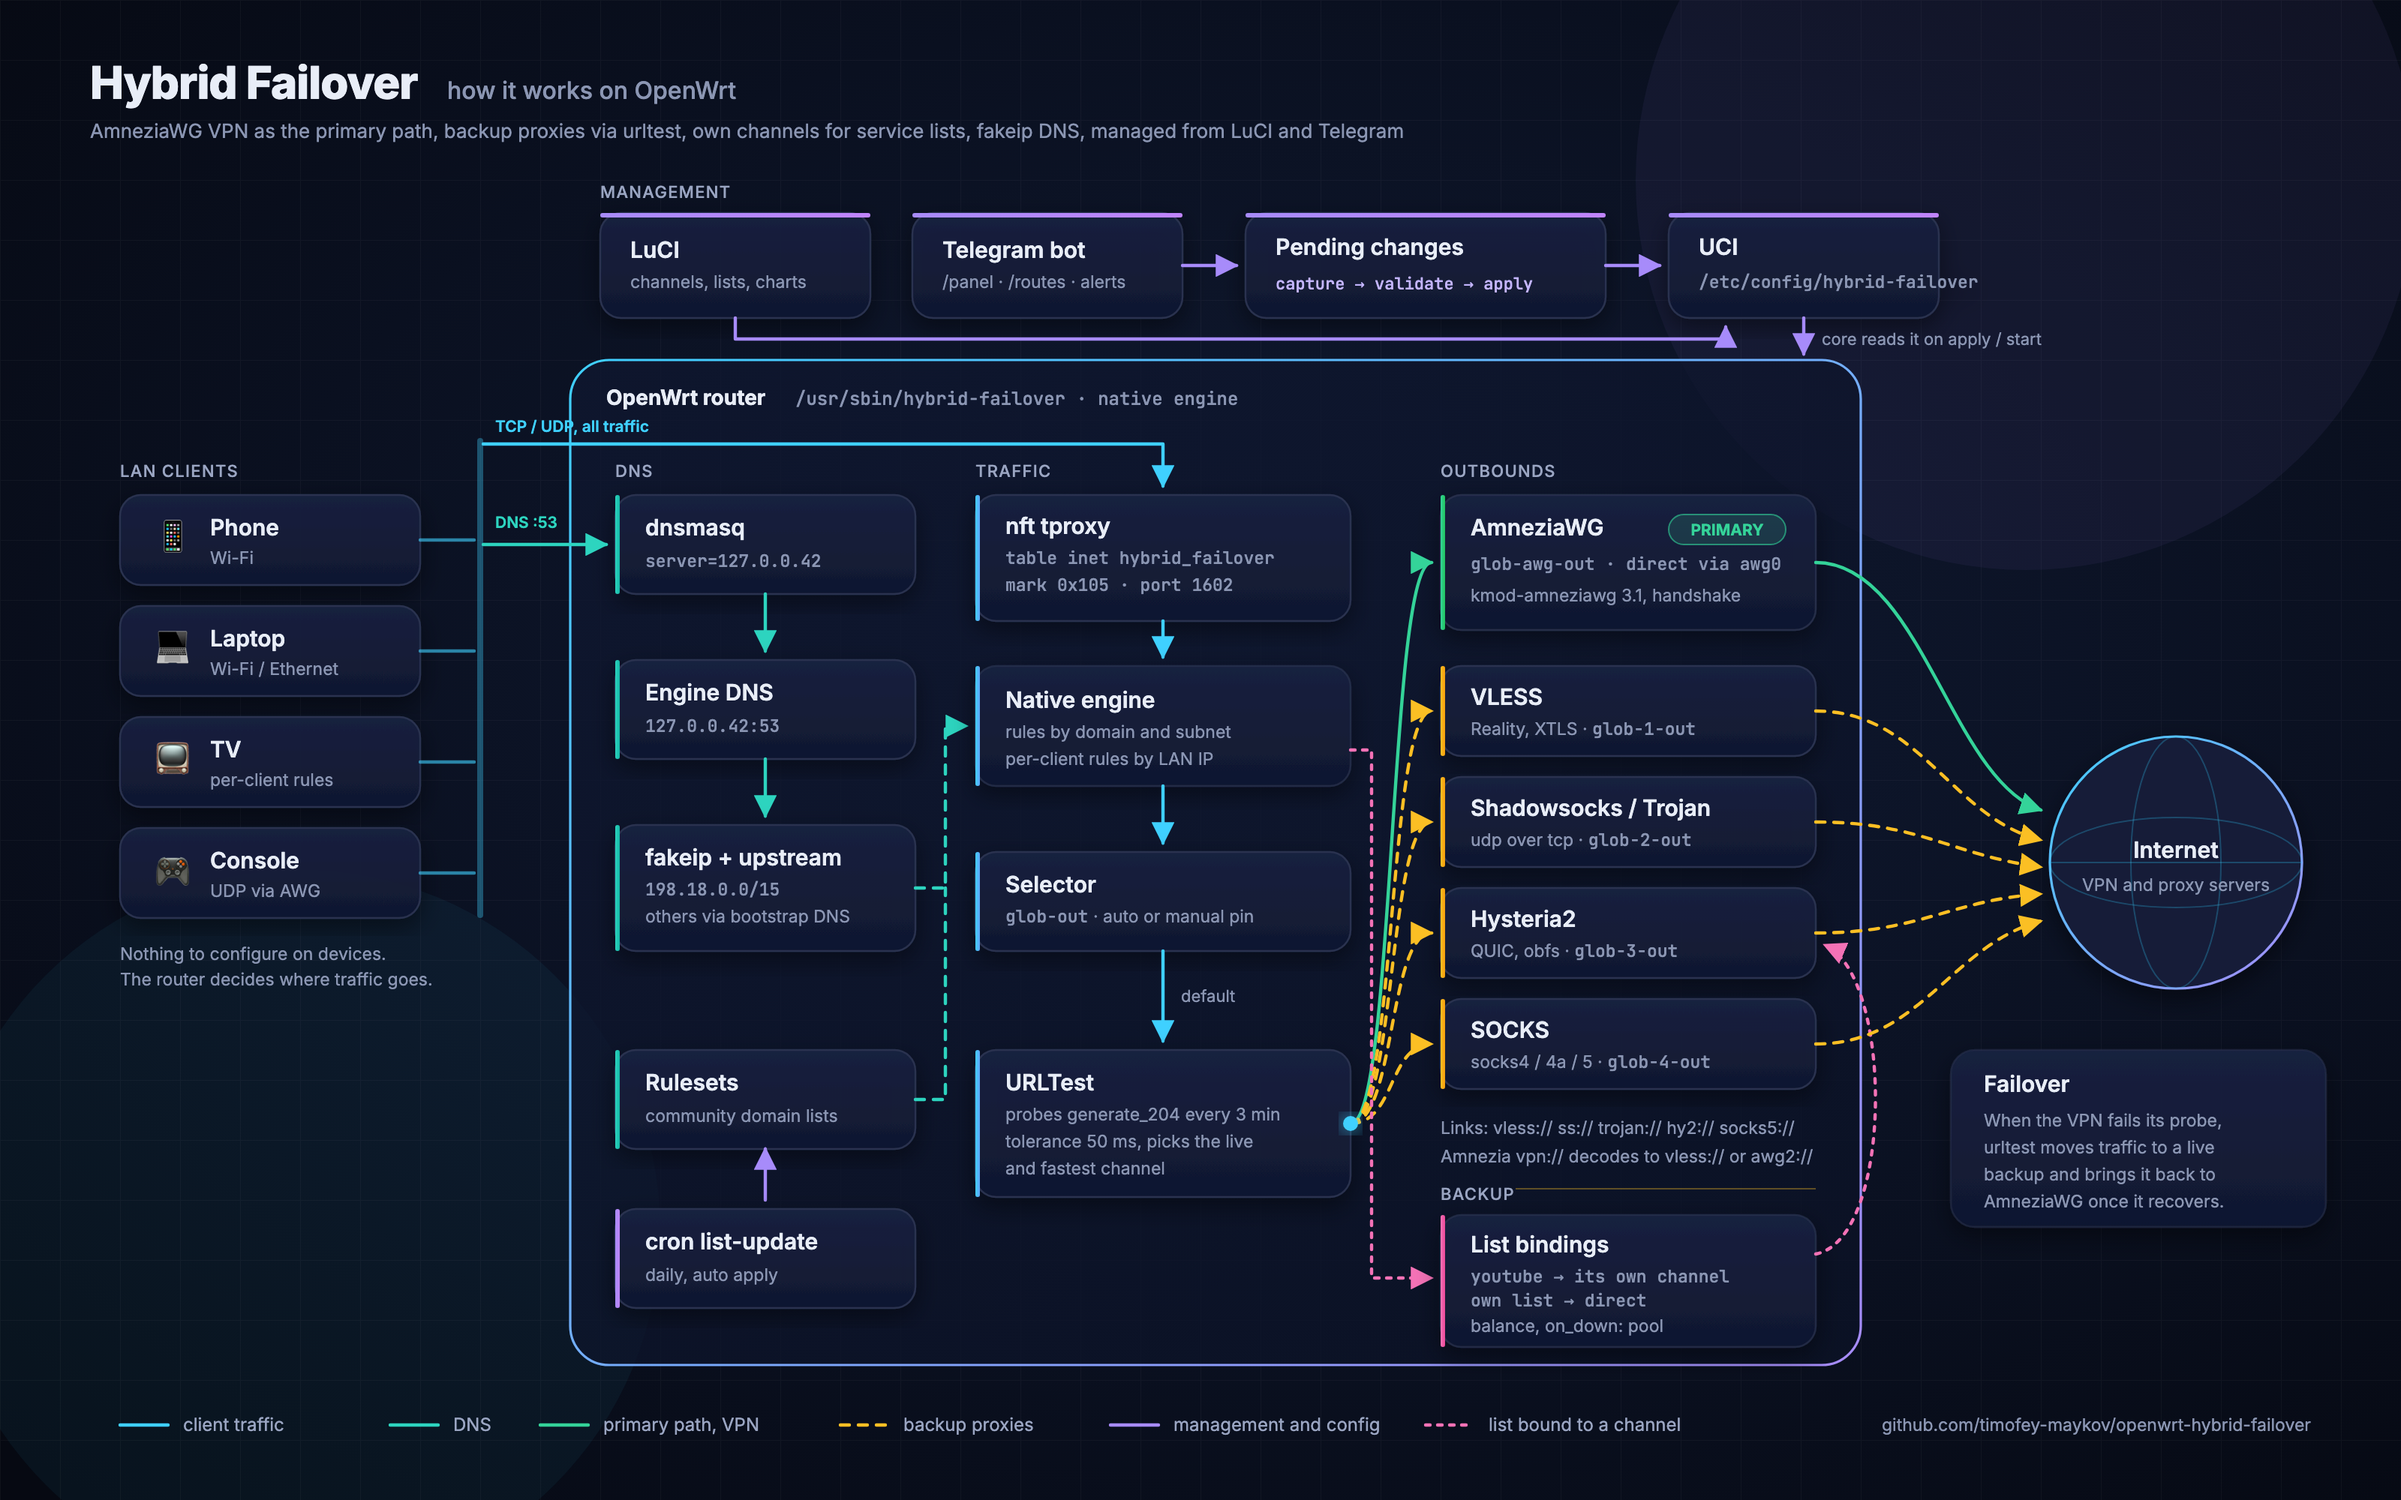
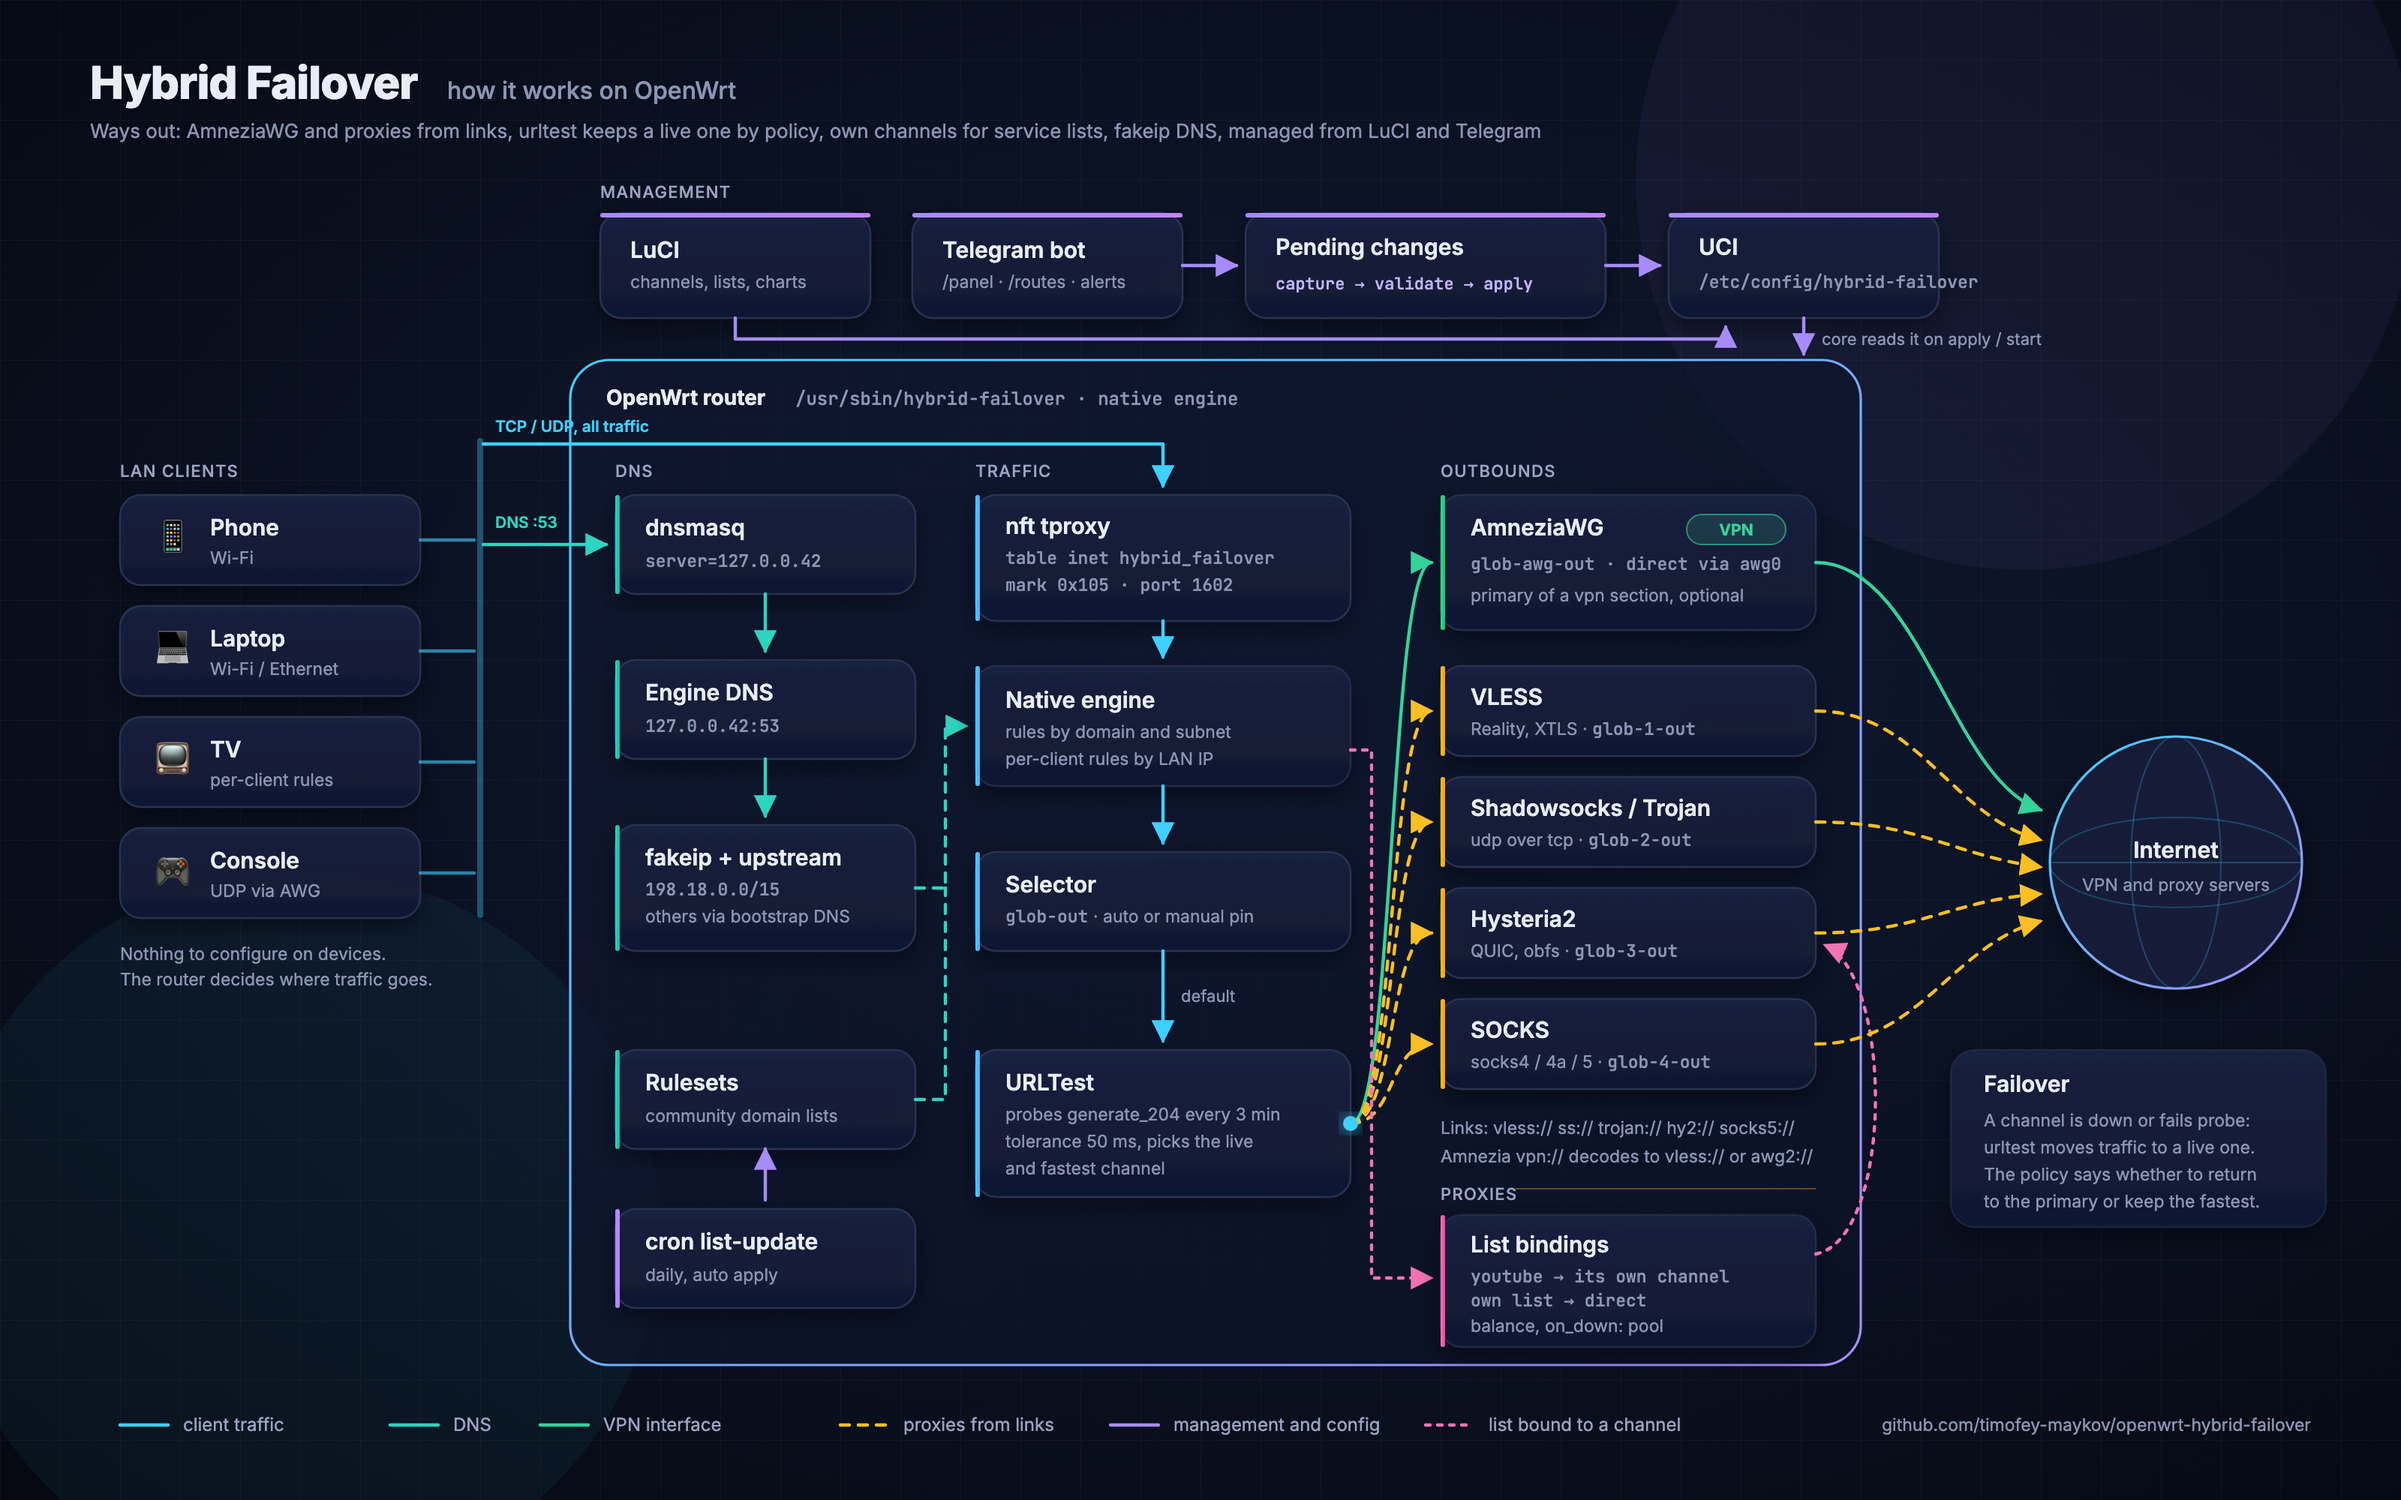
docs: redraw the schema without the VPN-plus-backups framing
AmneziaWG is one way out, the primary only in a vpn section; proxies
are channels in their own right, not a backup tier; the failover note
says the policy decides whether traffic returns to the primary or stays
on the fastest. PNGs re-rendered from the HTML sources with headless
Chrome at 2x, same pipeline as before.

diff --git a/docs/img/hybrid-failover-schema.html b/docs/img/hybrid-failover-schema.html
@@ -90,7 +90,7 @@
   <!-- title -->
   <text x="60" y="66" class="t" font-size="30" font-weight="800" letter-spacing="-0.5">Hybrid Failover</text>
   <text x="298" y="66" class="s" font-size="16" font-weight="500">как работает сервис на OpenWrt</text>
-  <text x="60" y="92" class="s" font-size="13">VPN через AmneziaWG как основной путь, резервные proxy через urltest, свои каналы для списков сервисов, DNS с fakeip, управление из LuCI и Telegram</text>
+  <text x="60" y="92" class="s" font-size="13">Каналы наружу: AmneziaWG и прокси по ссылкам, urltest держит живой по политике, свои каналы для списков сервисов, DNS с fakeip, управление из LuCI и Telegram</text>
 
   <!-- ===================== CONTROL PLANE ===================== -->
   <text x="400" y="132" class="lbl">Управление</text>
@@ -227,10 +227,10 @@
     <rect x="960" y="330" width="250" height="90" rx="14" class="card" stroke="#34d399" stroke-opacity="0.8"/>
     <rect x="960" y="330" width="3" height="90" rx="1.5" fill="url(#green)"/>
     <text x="980" y="357" class="cardT">AmneziaWG</text>
-    <rect x="1112" y="343" width="78" height="20" rx="10" fill="#34d399" fill-opacity="0.15" stroke="#34d399" stroke-opacity="0.6"/>
-    <text x="1151" y="357" font-size="10.5" font-weight="700" fill="#34d399" text-anchor="middle">ОСНОВНОЙ</text>
+    <rect x="1124" y="343" width="66" height="20" rx="10" fill="#34d399" fill-opacity="0.15" stroke="#34d399" stroke-opacity="0.6"/>
+    <text x="1157" y="357" font-size="10.5" font-weight="700" fill="#34d399" text-anchor="middle">VPN</text>
     <text x="980" y="380" class="cardS mono" font-size="11">glob-awg-out · direct via awg0</text>
-    <text x="980" y="401" class="cardS">kmod-amneziawg 3.1, handshake</text>
+    <text x="980" y="401" class="cardS">основной в секции vpn, необязателен</text>
   </g>
   <!-- backups -->
   <g filter="url(#soft)">
@@ -259,7 +259,7 @@
   </g>
   <text x="960" y="756" class="s" font-size="11.5">Ссылки: vless:// ss:// trojan:// hy2:// socks5://</text>
   <text x="960" y="775" class="s" font-size="11.5">vpn:// Amnezia декодируется в vless:// или awg2://</text>
-  <text x="960" y="800" class="lbl" font-size="10">Резерв</text>
+  <text x="960" y="800" class="lbl" font-size="10">Прокси</text>
   <rect x="1010" y="792" width="200" height="1" fill="#fbbf24" fill-opacity="0.35"/>
 
   <!-- urltest -> outbounds (fan out) -->
@@ -343,18 +343,18 @@
   <g filter="url(#soft)">
     <rect x="1300" y="700" width="250" height="118" rx="16" class="card" stroke="#fbbf24" stroke-opacity="0.5"/>
     <text x="1322" y="728" class="cardT" fill="#fbbf24">Failover</text>
-    <text x="1322" y="751" class="cardS">VPN упал или не проходит probe:</text>
-    <text x="1322" y="769" class="cardS">urltest сам переключает на живой</text>
-    <text x="1322" y="787" class="cardS">резерв, а после восстановления</text>
-    <text x="1322" y="805" class="cardS">возвращает трафик в AmneziaWG</text>
+    <text x="1322" y="751" class="cardS">Канал упал или не прошёл probe:</text>
+    <text x="1322" y="769" class="cardS">urltest переводит трафик на живой.</text>
+    <text x="1322" y="787" class="cardS">Политика решает: вернуться на</text>
+    <text x="1322" y="805" class="cardS">основной или держать самый быстрый.</text>
   </g>
 
   <!-- ===================== LEGEND ===================== -->
   <g font-size="12" fill="#9aa5c2">
     <line x1="80" y1="950" x2="112" y2="950" class="flow data"/><text x="122" y="954">трафик клиентов</text>
     <line x1="260" y1="950" x2="292" y2="950" class="flow dns"/><text x="302" y="954">DNS</text>
-    <line x1="360" y1="950" x2="392" y2="950" class="flow vpn"/><text x="402" y="954">основной путь, VPN</text>
-    <line x1="560" y1="950" x2="592" y2="950" class="flow bak dash"/><text x="602" y="954">резервные proxy</text>
+    <line x1="360" y1="950" x2="392" y2="950" class="flow vpn"/><text x="402" y="954">VPN-интерфейс</text>
+    <line x1="560" y1="950" x2="592" y2="950" class="flow bak dash"/><text x="602" y="954">прокси по ссылкам</text>
     <line x1="740" y1="950" x2="772" y2="950" class="flow ctl"/><text x="782" y="954">управление и конфиг</text>
     <line x1="950" y1="950" x2="982" y2="950" class="flow bind"/><text x="992" y="954">привязка списка к каналу</text>
   </g>

diff --git a/docs/img/hybrid-failover-schema.en.html b/docs/img/hybrid-failover-schema.en.html
@@ -90,7 +90,7 @@
   <!-- title -->
   <text x="60" y="66" class="t" font-size="30" font-weight="800" letter-spacing="-0.5">Hybrid Failover</text>
   <text x="298" y="66" class="s" font-size="16" font-weight="500">how it works on OpenWrt</text>
-  <text x="60" y="92" class="s" font-size="13">AmneziaWG VPN as the primary path, backup proxies via urltest, own channels for service lists, fakeip DNS, managed from LuCI and Telegram</text>
+  <text x="60" y="92" class="s" font-size="13">Ways out: AmneziaWG and proxies from links, urltest keeps a live one by policy, own channels for service lists, fakeip DNS, managed from LuCI and Telegram</text>
 
   <!-- ===================== CONTROL PLANE ===================== -->
   <text x="400" y="132" class="lbl">Management</text>
@@ -227,10 +227,10 @@
     <rect x="960" y="330" width="250" height="90" rx="14" class="card" stroke="#34d399" stroke-opacity="0.8"/>
     <rect x="960" y="330" width="3" height="90" rx="1.5" fill="url(#green)"/>
     <text x="980" y="357" class="cardT">AmneziaWG</text>
-    <rect x="1112" y="343" width="78" height="20" rx="10" fill="#34d399" fill-opacity="0.15" stroke="#34d399" stroke-opacity="0.6"/>
-    <text x="1151" y="357" font-size="10.5" font-weight="700" fill="#34d399" text-anchor="middle">PRIMARY</text>
+    <rect x="1124" y="343" width="66" height="20" rx="10" fill="#34d399" fill-opacity="0.15" stroke="#34d399" stroke-opacity="0.6"/>
+    <text x="1157" y="357" font-size="10.5" font-weight="700" fill="#34d399" text-anchor="middle">VPN</text>
     <text x="980" y="380" class="cardS mono" font-size="11">glob-awg-out · direct via awg0</text>
-    <text x="980" y="401" class="cardS">kmod-amneziawg 3.1, handshake</text>
+    <text x="980" y="401" class="cardS">primary of a vpn section, optional</text>
   </g>
   <!-- backups -->
   <g filter="url(#soft)">
@@ -259,7 +259,7 @@
   </g>
   <text x="960" y="756" class="s" font-size="11.5">Links: vless:// ss:// trojan:// hy2:// socks5://</text>
   <text x="960" y="775" class="s" font-size="11.5">Amnezia vpn:// decodes to vless:// or awg2://</text>
-  <text x="960" y="800" class="lbl" font-size="10">Backup</text>
+  <text x="960" y="800" class="lbl" font-size="10">Proxies</text>
   <rect x="1010" y="792" width="200" height="1" fill="#fbbf24" fill-opacity="0.35"/>
 
   <!-- urltest -> outbounds (fan out) -->
@@ -343,18 +343,18 @@
   <g filter="url(#soft)">
     <rect x="1300" y="700" width="250" height="118" rx="16" class="card" stroke="#fbbf24" stroke-opacity="0.5"/>
     <text x="1322" y="728" class="cardT" fill="#fbbf24">Failover</text>
-    <text x="1322" y="751" class="cardS">When the VPN fails its probe,</text>
-    <text x="1322" y="769" class="cardS">urltest moves traffic to a live</text>
-    <text x="1322" y="787" class="cardS">backup and brings it back to</text>
-    <text x="1322" y="805" class="cardS">AmneziaWG once it recovers.</text>
+    <text x="1322" y="751" class="cardS">A channel is down or fails probe:</text>
+    <text x="1322" y="769" class="cardS">urltest moves traffic to a live one.</text>
+    <text x="1322" y="787" class="cardS">The policy says whether to return</text>
+    <text x="1322" y="805" class="cardS">to the primary or keep the fastest.</text>
   </g>
 
   <!-- ===================== LEGEND ===================== -->
   <g font-size="12" fill="#9aa5c2">
     <line x1="80" y1="950" x2="112" y2="950" class="flow data"/><text x="122" y="954">client traffic</text>
     <line x1="260" y1="950" x2="292" y2="950" class="flow dns"/><text x="302" y="954">DNS</text>
-    <line x1="360" y1="950" x2="392" y2="950" class="flow vpn"/><text x="402" y="954">primary path, VPN</text>
-    <line x1="560" y1="950" x2="592" y2="950" class="flow bak dash"/><text x="602" y="954">backup proxies</text>
+    <line x1="360" y1="950" x2="392" y2="950" class="flow vpn"/><text x="402" y="954">VPN interface</text>
+    <line x1="560" y1="950" x2="592" y2="950" class="flow bak dash"/><text x="602" y="954">proxies from links</text>
     <line x1="740" y1="950" x2="772" y2="950" class="flow ctl"/><text x="782" y="954">management and config</text>
     <line x1="950" y1="950" x2="982" y2="950" class="flow bind"/><text x="992" y="954">list bound to a channel</text>
   </g>
